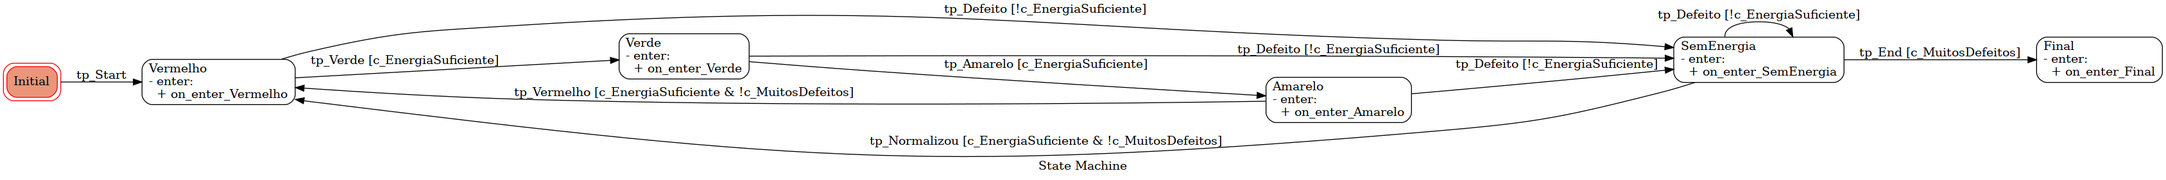
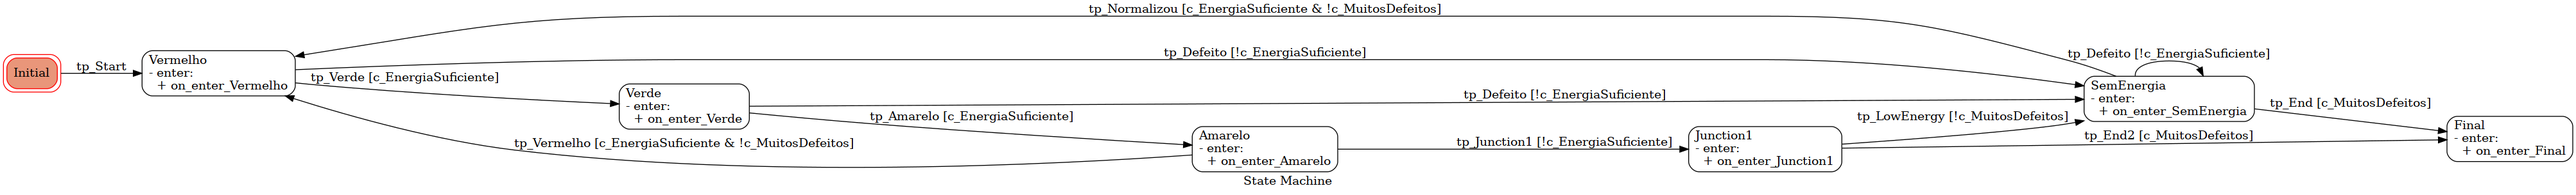
adição de Junction e movimentação do psm para OLD

diff --git a/Pytransitions/PytransSemaforo.py b/Pytransitions/PytransSemaforo.py
@@ -1,21 +1,24 @@
 import random, time
 from transitions.extensions import GraphMachine
 
-####################### Parameters #######################   
-MIN_ENERGIA = 10
-MAX_DEFEITOS = 10
 
 class Semaforo(GraphMachine):
 ####################### States Declaration #######################   
-    states = ['Initial','Vermelho','Amarelo', 'SemEnergia','Verde','Final']
+    states = ['Initial','Vermelho','Amarelo', 'SemEnergia','Verde', 'Junction1', 'Final']
 
 ####################### Transitions Statement  #######################  
     transitions = [
         {'trigger': 'tp_Start', 'source': 'Initial', 'dest': 'Vermelho'},
         {'trigger': 'tp_Verde', 'source': 'Vermelho', 'dest': 'Verde', 'conditions': 'c_EnergiaSuficiente'},
-        {'trigger': 'tp_Vermelho', 'source': 'Amarelo', 'dest': 'Vermelho', 'conditions': 'c_EnergiaSuficiente', 'unless': 'c_MuitosDefeitos'},
         {'trigger': 'tp_Amarelo', 'source': 'Verde', 'dest': 'Amarelo', 'conditions': 'c_EnergiaSuficiente'},
-        {'trigger': 'tp_Defeito', 'source': ['Verde', 'Vermelho', 'Amarelo', 'SemEnergia'], 'dest': 'SemEnergia', 'before':'before_tp_Defeito', 'unless': 'c_EnergiaSuficiente'},
+        {'trigger': 'tp_Vermelho', 'source': 'Amarelo', 'dest': 'Vermelho', 'conditions': 'c_EnergiaSuficiente', 'unless': 'c_MuitosDefeitos'},
+        
+        {'trigger': 'tp_Junction1', 'source': 'Amarelo', 'dest': 'Junction1', 'unless': 'c_EnergiaSuficiente'},
+        {'trigger': 'tp_LowEnergy', 'source': 'Junction1', 'dest': 'SemEnergia', 'unless': 'c_MuitosDefeitos'},
+        {'trigger': 'tp_End2', 'source': 'Junction1', 'dest': 'Final', 'conditions': 'c_MuitosDefeitos'},
+        
+        
+        {'trigger': 'tp_Defeito', 'source': ['Verde', 'Vermelho', 'SemEnergia'], 'dest': 'SemEnergia', 'before':'before_tp_Defeito', 'unless': 'c_EnergiaSuficiente'},
         {'trigger': 'tp_Normalizou', 'source': 'SemEnergia', 'dest': 'Vermelho', 'conditions': 'c_EnergiaSuficiente', 'unless': 'c_MuitosDefeitos'},
         {'trigger': 'tp_End', 'source': 'SemEnergia', 'dest': 'Final', 'conditions': 'c_MuitosDefeitos'}
      ]
@@ -25,22 +28,23 @@ class Semaforo(GraphMachine):
         super().__init__(name="Semaforo", states=Semaforo.states, transitions=Semaforo.transitions, initial='Initial', show_conditions=True, show_state_attributes=True)
         self.Energia = 100
         self.Defeitos = 0
+        self.MIN_ENERGIA = 10
+        self.MAX_DEFEITOS = 100
+        self.TIME_SLEEP = 0.1
+
+        self.cont1 = 0
+        self.cont2 = 0
+
+
         ####################### Draw State Machine ######################
         self.get_graph().draw('Pytransitions/PytransSemaforo.png', prog='dot')
 
-    def temporizador(self, segundos):
-        tempo_inicial = time.time()
-        tempo_atual = tempo_inicial
-        self.Energia = self.Energia - 10
-        while tempo_atual - tempo_inicial < segundos and self.Energia > MIN_ENERGIA:
-            tempo_atual = time.time()
-
 ####################### Transition Conditions ####################### 
     def c_EnergiaSuficiente(self):
-        return self.Energia >= MIN_ENERGIA
+        return self.Energia >= self.MIN_ENERGIA
     
     def c_MuitosDefeitos(self):
-        return self.Defeitos > MAX_DEFEITOS
+        return self.Defeitos > self.MAX_DEFEITOS
 
 ####################### Before Transitions ####################### 
     def before_tp_Defeito(self):
@@ -52,14 +56,15 @@ class Semaforo(GraphMachine):
    
     def on_enter_Vermelho(self):
         print(' Estou no Vermelho. Energia atual: ' + str(self.Energia))
-        self.temporizador(0.1)
+        self.Energia = self.Energia - 10
+        time.sleep(self.TIME_SLEEP)
 
     def on_enter_SemEnergia(self):
         print(" Sem energia. Aguardando normalização.")
         print(' Energia atual: ' + str(self.Energia))
         self.Defeitos = self.Defeitos + 1
         print(" Defeitos: " + str(self.Defeitos))
-        if(self.Defeitos <= MAX_DEFEITOS):
+        if(self.Defeitos <= self.MAX_DEFEITOS):
             recarga = random.randint(0,100)
             self.Energia = self.Energia + recarga
             print(" Foram recarregados " + str(recarga) + " de energia agora")
@@ -67,37 +72,55 @@ class Semaforo(GraphMachine):
 
     def on_enter_Amarelo(self):               
         print(' Estou no Amarelo. Energia atual: ' + str(self.Energia))
-        self.temporizador(0.1)
+        self.Energia = self.Energia - 10
+        time.sleep(self.TIME_SLEEP)
 
     def on_enter_Verde(self):
         print(' Estou no Verde. Energia atual: ' + str(self.Energia))
-        self.temporizador(0.1)
+        self.Energia = self.Energia - 10
+        time.sleep(self.TIME_SLEEP)
+
+    def on_enter_Junction1(self):               
+        print("Entrei na junction")
+        if(self.Defeitos > self.MAX_DEFEITOS):
+            print("Irei finalizar o semáforo")
+        else:
+            print("Irei para o estado de baixa energia")
 
     def run(self):
         while True:
             if(self.state == 'Initial'):
                 self.tp_Start()
 
-            if(self.state == 'Vermelho' and self.Energia >= MIN_ENERGIA):
+            if(self.state == 'Vermelho' and self.Energia >= self.MIN_ENERGIA):
                 self.tp_Verde()
-            if(self.state == 'Vermelho' and self.Energia < MIN_ENERGIA):
+            if(self.state == 'Vermelho' and self.Energia < self.MIN_ENERGIA):
                 self.tp_Defeito()
 
-            if(self.state == 'Amarelo' and self.Energia >= MIN_ENERGIA):
+            if(self.state == 'Amarelo' and self.Energia >= self.MIN_ENERGIA):
                 self.tp_Vermelho()
-            if(self.state == 'Amarelo' and self.Energia < MIN_ENERGIA):
-                self.tp_Defeito()
+            if(self.state == 'Amarelo' and self.Energia < self.MIN_ENERGIA):
+                self.tp_Junction1()
 
-            if(self.state == 'Verde' and self.Energia >= MIN_ENERGIA):
+            if(self.state == 'Junction1' and self.Defeitos > self.MAX_DEFEITOS):
+                self.cont1 = self.cont1 + 1
+                print(self.cont1)
+                self.tp_End2()
+            if(self.state == 'Junction1' and self.Defeitos < self.MAX_DEFEITOS):
+                self.cont2 = self.cont2 + 1
+                print(self.cont2)
+                self.tp_LowEnergy()
+
+            if(self.state == 'Verde' and self.Energia >= self.MIN_ENERGIA):
                 self.tp_Amarelo()
-            if(self.state == 'Verde' and self.Energia < MIN_ENERGIA):
+            if(self.state == 'Verde' and self.Energia < self.MIN_ENERGIA):
                 self.tp_Defeito()
 
-            if(self.state == 'SemEnergia' and self.Energia >= MIN_ENERGIA and self.Defeitos <= MAX_DEFEITOS):
+            if(self.state == 'SemEnergia' and self.Energia >= self.MIN_ENERGIA and self.Defeitos <= self.MAX_DEFEITOS):
                 self.tp_Normalizou()
-            if(self.state == 'SemEnergia' and self.Energia < MIN_ENERGIA and self.Defeitos <= MAX_DEFEITOS):
+            if(self.state == 'SemEnergia' and self.Energia < self.MIN_ENERGIA and self.Defeitos <= self.MAX_DEFEITOS):
                 self.tp_Defeito()
-            if(self.state == 'SemEnergia' and self.Defeitos > MAX_DEFEITOS):
+            if(self.state == 'SemEnergia' and self.Defeitos > self.MAX_DEFEITOS):
                 self.tp_End()
             
             if(self.state == 'Final'):
